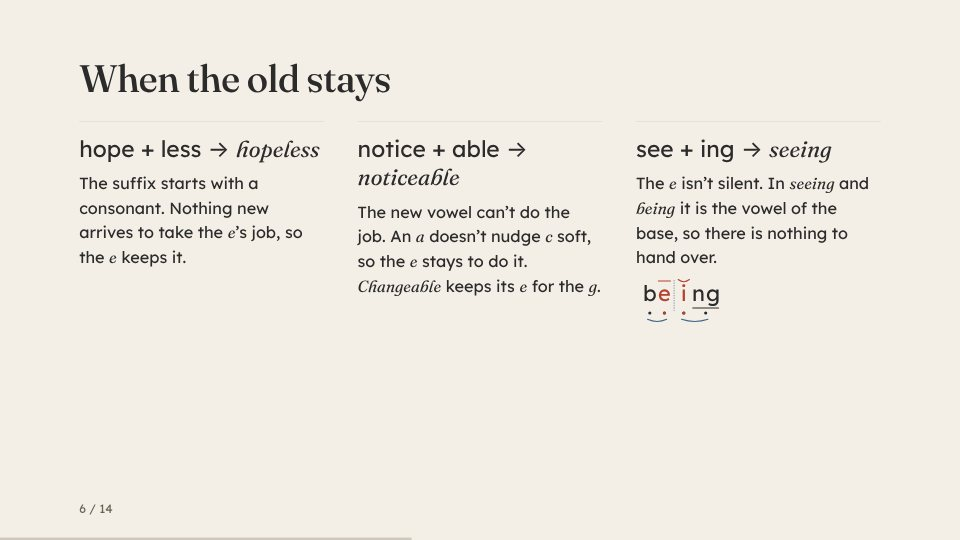
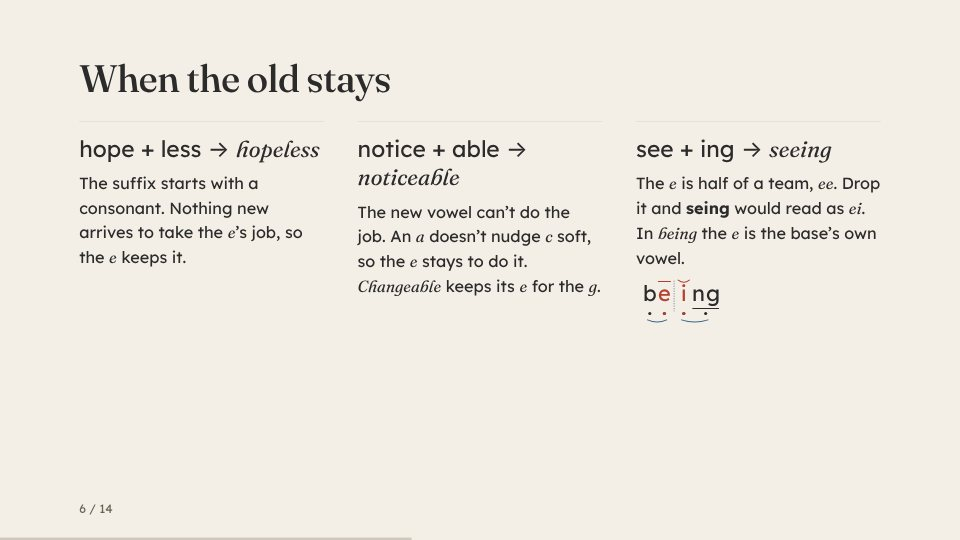
Deck: seeing keeps its e for the reason Carney gives (p. 131)
The e of ee and oe stays before i so that ei and oi aren't read; the
slide said the e wasn't silent, which wasn't the reason.

Claude-Session: https://claude.ai/code/session_01EBe5YS3G1aEsWeRdQiXfd5

Changed region(s): [[0.6562, 0.3259, 0.9375, 0.5333], [0.7188, 0.563, 0.75, 0.5926]]

diff --git a/docs/sessions/out-with-the-old-offline.html b/docs/sessions/out-with-the-old-offline.html
@@ -120,7 +120,7 @@ body.awake #controls,#controls:focus-within{opacity:1}
 <div class="cols3">
 <div data-s="1"><p class="sum">hope + less &rarr; <i>hopeless</i></p><p class="body">The suffix starts with a consonant. Nothing new arrives to take the <i>e</i>&rsquo;s job, so the <i>e</i> keeps it.</p></div>
 <div data-s="2"><p class="sum">notice + able &rarr; <i>noticeable</i></p><p class="body">The new vowel can&rsquo;t do the job. An <i>a</i> doesn&rsquo;t nudge <i>c</i> soft, so the <i>e</i> stays to do it. <i>Changeable</i> keeps its <i>e</i> for the <i>g</i>.</p></div>
-<div data-s="3"><p class="sum">see + ing &rarr; <i>seeing</i></p><p class="body">The <i>e</i> isn&rsquo;t silent. In <i>seeing</i> and <i>being</i> it is the vowel of the base, so there is nothing to hand over.<svg class="mw" viewBox="0 0 417 248" style="height:90px" role="img" aria-label="being, marked"><line x1="175.0" y1="49.0" x2="175.0" y2="190.0" stroke="var(--modal)" stroke-width="3.0" stroke-dasharray="5.7 5.7"/><g font-family="Lexend, system-ui, sans-serif" font-size="100.0" font-weight="400" text-anchor="middle"><text x="63.5" y="144.0" fill="var(--ink)">b</text><text x="130.5" y="144.0" fill="var(--verb)">e</text><text x="219.5" y="144.0" fill="var(--verb)">i</text><text x="286.5" y="144.0" fill="var(--ink)">n</text><text x="353.5" y="144.0" fill="var(--ink)">g</text></g><line x1="102.6" y1="53.0" x2="158.4" y2="53.0" stroke="var(--verb)" stroke-width="5.0" stroke-linecap="round"/><path d="M193.8 46.5 Q219.5 66.5 245.2 46.5" fill="none" stroke="var(--verb)" stroke-width="5.0" stroke-linecap="round"/><line x1="260.8" y1="177.0" x2="379.2" y2="177.0" stroke="var(--ink)" stroke-width="5.0" stroke-linecap="round"/><circle cx="63.5" cy="200.0" r="7.2" fill="var(--ink)"/><circle cx="130.5" cy="200.0" r="7.2" fill="var(--ink)"/><circle cx="130.5" cy="200.0" r="7.2" fill="var(--verb)"/><circle cx="219.5" cy="200.0" r="7.2" fill="var(--ink)"/><circle cx="219.5" cy="200.0" r="7.2" fill="var(--verb)"/><circle cx="320.0" cy="200.0" r="7.2" fill="var(--ink)"/><path d="M52.8 229.0 Q97.0 249.0 141.2 229.0" fill="none" stroke="var(--modal)" stroke-width="4.6" stroke-linecap="round"/><path d="M208.8 229.0 Q269.8 249.0 330.7 229.0" fill="none" stroke="var(--modal)" stroke-width="4.6" stroke-linecap="round"/></svg></p></div>
+<div data-s="3"><p class="sum">see + ing &rarr; <i>seeing</i></p><p class="body">The <i>e</i> is half of a team, <i>ee</i>. Drop it and <b>seing</b> would read as <i>ei</i>. In <i>being</i> the <i>e</i> is the base&rsquo;s own vowel.<svg class="mw" viewBox="0 0 417 248" style="height:90px" role="img" aria-label="being, marked"><line x1="175.0" y1="49.0" x2="175.0" y2="190.0" stroke="var(--modal)" stroke-width="3.0" stroke-dasharray="5.7 5.7"/><g font-family="Lexend, system-ui, sans-serif" font-size="100.0" font-weight="400" text-anchor="middle"><text x="63.5" y="144.0" fill="var(--ink)">b</text><text x="130.5" y="144.0" fill="var(--verb)">e</text><text x="219.5" y="144.0" fill="var(--verb)">i</text><text x="286.5" y="144.0" fill="var(--ink)">n</text><text x="353.5" y="144.0" fill="var(--ink)">g</text></g><line x1="102.6" y1="53.0" x2="158.4" y2="53.0" stroke="var(--verb)" stroke-width="5.0" stroke-linecap="round"/><path d="M193.8 46.5 Q219.5 66.5 245.2 46.5" fill="none" stroke="var(--verb)" stroke-width="5.0" stroke-linecap="round"/><line x1="260.8" y1="177.0" x2="379.2" y2="177.0" stroke="var(--ink)" stroke-width="5.0" stroke-linecap="round"/><circle cx="63.5" cy="200.0" r="7.2" fill="var(--ink)"/><circle cx="130.5" cy="200.0" r="7.2" fill="var(--ink)"/><circle cx="130.5" cy="200.0" r="7.2" fill="var(--verb)"/><circle cx="219.5" cy="200.0" r="7.2" fill="var(--ink)"/><circle cx="219.5" cy="200.0" r="7.2" fill="var(--verb)"/><circle cx="320.0" cy="200.0" r="7.2" fill="var(--ink)"/><path d="M52.8 229.0 Q97.0 249.0 141.2 229.0" fill="none" stroke="var(--modal)" stroke-width="4.6" stroke-linecap="round"/><path d="M208.8 229.0 Q269.8 249.0 330.7 229.0" fill="none" stroke="var(--modal)" stroke-width="4.6" stroke-linecap="round"/></svg></p></div>
 </div>
 </section>
 <section class="slide mid" aria-label="One question" data-max="1">
@@ -167,7 +167,7 @@ body.awake #controls,#controls:focus-within{opacity:1}
 </section>
 <section class="slide mid" aria-label="Sources">
 <h2 class="head">Sources</h2>
-<p class="body">Edward Carney, <i>A Survey of English Spelling</i> (Routledge, 1994): the <i>e</i> drops before an ending that begins with a vowel, p. 130, and stays where it still nudges <i>c</i> or <i>g</i> (<i>noticeable</i>), p. 131.</p>
+<p class="body">Edward Carney, <i>A Survey of English Spelling</i> (Routledge, 1994): the <i>e</i> drops before an ending that begins with a vowel, p. 130, and stays where it still nudges <i>c</i> or <i>g</i> (<i>noticeable</i>), p. 131; the <i>e</i> of <i>ee</i> and <i>oe</i> stays before <i>i</i> (<i>seeing</i>, <i>canoeing</i>), so that <i>ei</i> and <i>oi</i> aren&rsquo;t read, p. 131.</p>
 <p class="body">The histories of the words are in Etymonline. The families are on the Sound and Word Atlas: <a href="https://legomorphics.ca/roots/deuk.html">*deuk-</a> for <i>educate</i> and <i>produce</i>, <a href="https://legomorphics.ca/roots/med.html">*med-</a> for <i>accommodate</i>, and <a href="https://legomorphics.ca/parts.html">Parts</a> for every word with each suffix. This is <a href="https://legomorphics.ca/steps/15.html">step 15</a> of its route.</p>
 <p class="source">Shared under CC BY-NC-SA 4.0.</p>
 </section>

diff --git a/build/sessions/out-with-the-old.html b/build/sessions/out-with-the-old.html
@@ -110,7 +110,7 @@ body.awake #controls,#controls:focus-within{opacity:1}
 <div class="cols3">
 <div data-s="1"><p class="sum">hope + less &rarr; <i>hopeless</i></p><p class="body">The suffix starts with a consonant. Nothing new arrives to take the <i>e</i>&rsquo;s job, so the <i>e</i> keeps it.</p></div>
 <div data-s="2"><p class="sum">notice + able &rarr; <i>noticeable</i></p><p class="body">The new vowel can&rsquo;t do the job. An <i>a</i> doesn&rsquo;t nudge <i>c</i> soft, so the <i>e</i> stays to do it. <i>Changeable</i> keeps its <i>e</i> for the <i>g</i>.</p></div>
-<div data-s="3"><p class="sum">see + ing &rarr; <i>seeing</i></p><p class="body">The <i>e</i> isn&rsquo;t silent. In <i>seeing</i> and <i>being</i> it is the vowel of the base, so there is nothing to hand over.<svg class="mw" viewBox="0 0 417 248" style="height:90px" role="img" aria-label="being, marked"><line x1="175.0" y1="49.0" x2="175.0" y2="190.0" stroke="var(--modal)" stroke-width="3.0" stroke-dasharray="5.7 5.7"/><g font-family="Lexend, system-ui, sans-serif" font-size="100.0" font-weight="400" text-anchor="middle"><text x="63.5" y="144.0" fill="var(--ink)">b</text><text x="130.5" y="144.0" fill="var(--verb)">e</text><text x="219.5" y="144.0" fill="var(--verb)">i</text><text x="286.5" y="144.0" fill="var(--ink)">n</text><text x="353.5" y="144.0" fill="var(--ink)">g</text></g><line x1="102.6" y1="53.0" x2="158.4" y2="53.0" stroke="var(--verb)" stroke-width="5.0" stroke-linecap="round"/><path d="M193.8 46.5 Q219.5 66.5 245.2 46.5" fill="none" stroke="var(--verb)" stroke-width="5.0" stroke-linecap="round"/><line x1="260.8" y1="177.0" x2="379.2" y2="177.0" stroke="var(--ink)" stroke-width="5.0" stroke-linecap="round"/><circle cx="63.5" cy="200.0" r="7.2" fill="var(--ink)"/><circle cx="130.5" cy="200.0" r="7.2" fill="var(--ink)"/><circle cx="130.5" cy="200.0" r="7.2" fill="var(--verb)"/><circle cx="219.5" cy="200.0" r="7.2" fill="var(--ink)"/><circle cx="219.5" cy="200.0" r="7.2" fill="var(--verb)"/><circle cx="320.0" cy="200.0" r="7.2" fill="var(--ink)"/><path d="M52.8 229.0 Q97.0 249.0 141.2 229.0" fill="none" stroke="var(--modal)" stroke-width="4.6" stroke-linecap="round"/><path d="M208.8 229.0 Q269.8 249.0 330.7 229.0" fill="none" stroke="var(--modal)" stroke-width="4.6" stroke-linecap="round"/></svg></p></div>
+<div data-s="3"><p class="sum">see + ing &rarr; <i>seeing</i></p><p class="body">The <i>e</i> is half of a team, <i>ee</i>. Drop it and <b>seing</b> would read as <i>ei</i>. In <i>being</i> the <i>e</i> is the base&rsquo;s own vowel.<svg class="mw" viewBox="0 0 417 248" style="height:90px" role="img" aria-label="being, marked"><line x1="175.0" y1="49.0" x2="175.0" y2="190.0" stroke="var(--modal)" stroke-width="3.0" stroke-dasharray="5.7 5.7"/><g font-family="Lexend, system-ui, sans-serif" font-size="100.0" font-weight="400" text-anchor="middle"><text x="63.5" y="144.0" fill="var(--ink)">b</text><text x="130.5" y="144.0" fill="var(--verb)">e</text><text x="219.5" y="144.0" fill="var(--verb)">i</text><text x="286.5" y="144.0" fill="var(--ink)">n</text><text x="353.5" y="144.0" fill="var(--ink)">g</text></g><line x1="102.6" y1="53.0" x2="158.4" y2="53.0" stroke="var(--verb)" stroke-width="5.0" stroke-linecap="round"/><path d="M193.8 46.5 Q219.5 66.5 245.2 46.5" fill="none" stroke="var(--verb)" stroke-width="5.0" stroke-linecap="round"/><line x1="260.8" y1="177.0" x2="379.2" y2="177.0" stroke="var(--ink)" stroke-width="5.0" stroke-linecap="round"/><circle cx="63.5" cy="200.0" r="7.2" fill="var(--ink)"/><circle cx="130.5" cy="200.0" r="7.2" fill="var(--ink)"/><circle cx="130.5" cy="200.0" r="7.2" fill="var(--verb)"/><circle cx="219.5" cy="200.0" r="7.2" fill="var(--ink)"/><circle cx="219.5" cy="200.0" r="7.2" fill="var(--verb)"/><circle cx="320.0" cy="200.0" r="7.2" fill="var(--ink)"/><path d="M52.8 229.0 Q97.0 249.0 141.2 229.0" fill="none" stroke="var(--modal)" stroke-width="4.6" stroke-linecap="round"/><path d="M208.8 229.0 Q269.8 249.0 330.7 229.0" fill="none" stroke="var(--modal)" stroke-width="4.6" stroke-linecap="round"/></svg></p></div>
 </div>
 </section>
 <section class="slide mid" aria-label="One question" data-max="1">
@@ -157,7 +157,7 @@ body.awake #controls,#controls:focus-within{opacity:1}
 </section>
 <section class="slide mid" aria-label="Sources">
 <h2 class="head">Sources</h2>
-<p class="body">Edward Carney, <i>A Survey of English Spelling</i> (Routledge, 1994): the <i>e</i> drops before an ending that begins with a vowel, p. 130, and stays where it still nudges <i>c</i> or <i>g</i> (<i>noticeable</i>), p. 131.</p>
+<p class="body">Edward Carney, <i>A Survey of English Spelling</i> (Routledge, 1994): the <i>e</i> drops before an ending that begins with a vowel, p. 130, and stays where it still nudges <i>c</i> or <i>g</i> (<i>noticeable</i>), p. 131; the <i>e</i> of <i>ee</i> and <i>oe</i> stays before <i>i</i> (<i>seeing</i>, <i>canoeing</i>), so that <i>ei</i> and <i>oi</i> aren&rsquo;t read, p. 131.</p>
 <p class="body">The histories of the words are in Etymonline. The families are on the Sound and Word Atlas: <a href="../roots/deuk.html">*deuk-</a> for <i>educate</i> and <i>produce</i>, <a href="../roots/med.html">*med-</a> for <i>accommodate</i>, and <a href="../parts.html">Parts</a> for every word with each suffix. This is <a href="../steps/15.html">step 15</a> of its route.</p>
 <p class="source">Shared under CC BY-NC-SA 4.0.</p>
 </section>

diff --git a/docs/sessions/out-with-the-old.html b/docs/sessions/out-with-the-old.html
@@ -108,7 +108,7 @@ body.awake #controls,#controls:focus-within{opacity:1}
 <div class="cols3">
 <div data-s="1"><p class="sum">hope + less &rarr; <i>hopeless</i></p><p class="body">The suffix starts with a consonant. Nothing new arrives to take the <i>e</i>&rsquo;s job, so the <i>e</i> keeps it.</p></div>
 <div data-s="2"><p class="sum">notice + able &rarr; <i>noticeable</i></p><p class="body">The new vowel can&rsquo;t do the job. An <i>a</i> doesn&rsquo;t nudge <i>c</i> soft, so the <i>e</i> stays to do it. <i>Changeable</i> keeps its <i>e</i> for the <i>g</i>.</p></div>
-<div data-s="3"><p class="sum">see + ing &rarr; <i>seeing</i></p><p class="body">The <i>e</i> isn&rsquo;t silent. In <i>seeing</i> and <i>being</i> it is the vowel of the base, so there is nothing to hand over.<svg class="mw" viewBox="0 0 417 248" style="height:90px" role="img" aria-label="being, marked"><line x1="175.0" y1="49.0" x2="175.0" y2="190.0" stroke="var(--modal)" stroke-width="3.0" stroke-dasharray="5.7 5.7"/><g font-family="Lexend, system-ui, sans-serif" font-size="100.0" font-weight="400" text-anchor="middle"><text x="63.5" y="144.0" fill="var(--ink)">b</text><text x="130.5" y="144.0" fill="var(--verb)">e</text><text x="219.5" y="144.0" fill="var(--verb)">i</text><text x="286.5" y="144.0" fill="var(--ink)">n</text><text x="353.5" y="144.0" fill="var(--ink)">g</text></g><line x1="102.6" y1="53.0" x2="158.4" y2="53.0" stroke="var(--verb)" stroke-width="5.0" stroke-linecap="round"/><path d="M193.8 46.5 Q219.5 66.5 245.2 46.5" fill="none" stroke="var(--verb)" stroke-width="5.0" stroke-linecap="round"/><line x1="260.8" y1="177.0" x2="379.2" y2="177.0" stroke="var(--ink)" stroke-width="5.0" stroke-linecap="round"/><circle cx="63.5" cy="200.0" r="7.2" fill="var(--ink)"/><circle cx="130.5" cy="200.0" r="7.2" fill="var(--ink)"/><circle cx="130.5" cy="200.0" r="7.2" fill="var(--verb)"/><circle cx="219.5" cy="200.0" r="7.2" fill="var(--ink)"/><circle cx="219.5" cy="200.0" r="7.2" fill="var(--verb)"/><circle cx="320.0" cy="200.0" r="7.2" fill="var(--ink)"/><path d="M52.8 229.0 Q97.0 249.0 141.2 229.0" fill="none" stroke="var(--modal)" stroke-width="4.6" stroke-linecap="round"/><path d="M208.8 229.0 Q269.8 249.0 330.7 229.0" fill="none" stroke="var(--modal)" stroke-width="4.6" stroke-linecap="round"/></svg></p></div>
+<div data-s="3"><p class="sum">see + ing &rarr; <i>seeing</i></p><p class="body">The <i>e</i> is half of a team, <i>ee</i>. Drop it and <b>seing</b> would read as <i>ei</i>. In <i>being</i> the <i>e</i> is the base&rsquo;s own vowel.<svg class="mw" viewBox="0 0 417 248" style="height:90px" role="img" aria-label="being, marked"><line x1="175.0" y1="49.0" x2="175.0" y2="190.0" stroke="var(--modal)" stroke-width="3.0" stroke-dasharray="5.7 5.7"/><g font-family="Lexend, system-ui, sans-serif" font-size="100.0" font-weight="400" text-anchor="middle"><text x="63.5" y="144.0" fill="var(--ink)">b</text><text x="130.5" y="144.0" fill="var(--verb)">e</text><text x="219.5" y="144.0" fill="var(--verb)">i</text><text x="286.5" y="144.0" fill="var(--ink)">n</text><text x="353.5" y="144.0" fill="var(--ink)">g</text></g><line x1="102.6" y1="53.0" x2="158.4" y2="53.0" stroke="var(--verb)" stroke-width="5.0" stroke-linecap="round"/><path d="M193.8 46.5 Q219.5 66.5 245.2 46.5" fill="none" stroke="var(--verb)" stroke-width="5.0" stroke-linecap="round"/><line x1="260.8" y1="177.0" x2="379.2" y2="177.0" stroke="var(--ink)" stroke-width="5.0" stroke-linecap="round"/><circle cx="63.5" cy="200.0" r="7.2" fill="var(--ink)"/><circle cx="130.5" cy="200.0" r="7.2" fill="var(--ink)"/><circle cx="130.5" cy="200.0" r="7.2" fill="var(--verb)"/><circle cx="219.5" cy="200.0" r="7.2" fill="var(--ink)"/><circle cx="219.5" cy="200.0" r="7.2" fill="var(--verb)"/><circle cx="320.0" cy="200.0" r="7.2" fill="var(--ink)"/><path d="M52.8 229.0 Q97.0 249.0 141.2 229.0" fill="none" stroke="var(--modal)" stroke-width="4.6" stroke-linecap="round"/><path d="M208.8 229.0 Q269.8 249.0 330.7 229.0" fill="none" stroke="var(--modal)" stroke-width="4.6" stroke-linecap="round"/></svg></p></div>
 </div>
 </section>
 <section class="slide mid" aria-label="One question" data-max="1">
@@ -155,7 +155,7 @@ body.awake #controls,#controls:focus-within{opacity:1}
 </section>
 <section class="slide mid" aria-label="Sources">
 <h2 class="head">Sources</h2>
-<p class="body">Edward Carney, <i>A Survey of English Spelling</i> (Routledge, 1994): the <i>e</i> drops before an ending that begins with a vowel, p. 130, and stays where it still nudges <i>c</i> or <i>g</i> (<i>noticeable</i>), p. 131.</p>
+<p class="body">Edward Carney, <i>A Survey of English Spelling</i> (Routledge, 1994): the <i>e</i> drops before an ending that begins with a vowel, p. 130, and stays where it still nudges <i>c</i> or <i>g</i> (<i>noticeable</i>), p. 131; the <i>e</i> of <i>ee</i> and <i>oe</i> stays before <i>i</i> (<i>seeing</i>, <i>canoeing</i>), so that <i>ei</i> and <i>oi</i> aren&rsquo;t read, p. 131.</p>
 <p class="body">The histories of the words are in Etymonline. The families are on the Sound and Word Atlas: <a href="../roots/deuk.html">*deuk-</a> for <i>educate</i> and <i>produce</i>, <a href="../roots/med.html">*med-</a> for <i>accommodate</i>, and <a href="../parts.html">Parts</a> for every word with each suffix. This is <a href="../steps/15.html">step 15</a> of its route.</p>
 <p class="source">Shared under CC BY-NC-SA 4.0.</p>
 </section>

diff --git a/build/outin.py b/build/outin.py
@@ -66,7 +66,7 @@ slide("When the old stays", f"""<h2 class="head">When the old stays</h2>
 <div class="cols3">
 <div data-s="1"><p class="sum">hope + less &rarr; {i("hopeless")}</p><p class="body">The suffix starts with a consonant. Nothing new arrives to take the {i("e")}&rsquo;s job, so the {i("e")} keeps it.</p></div>
 <div data-s="2"><p class="sum">notice + able &rarr; {i("noticeable")}</p><p class="body">The new vowel can&rsquo;t do the job. An {i("a")} doesn&rsquo;t nudge {i("c")} soft, so the {i("e")} stays to do it. {i("Changeable")} keeps its {i("e")} for the {i("g")}.</p></div>
-<div data-s="3"><p class="sum">see + ing &rarr; {i("seeing")}</p><p class="body">The {i("e")} isn&rsquo;t silent. In {i("seeing")} and {i("being")} it is the vowel of the base, so there is nothing to hand over.{word("being", 90)}</p></div>
+<div data-s="3"><p class="sum">see + ing &rarr; {i("seeing")}</p><p class="body">The {i("e")} is half of a team, {i("ee")}. Drop it and <b>seing</b> would read as {i("ei")}. In {i("being")} the {i("e")} is the base&rsquo;s own vowel.{word("being", 90)}</p></div>
 </div>""", steps=3)
 
 # 7 the test
@@ -118,7 +118,7 @@ slide("A caution", f"""<h2 class="head">A caution: the parts stay, the sounds mo
 
 # 14 sources
 slide("Sources", f"""<h2 class="head">Sources</h2>
-<p class="body">Edward Carney, <i>A Survey of English Spelling</i> (Routledge, 1994): the <i>e</i> drops before an ending that begins with a vowel, p. 130, and stays where it still nudges <i>c</i> or <i>g</i> (<i>noticeable</i>), p. 131.</p>
+<p class="body">Edward Carney, <i>A Survey of English Spelling</i> (Routledge, 1994): the <i>e</i> drops before an ending that begins with a vowel, p. 130, and stays where it still nudges <i>c</i> or <i>g</i> (<i>noticeable</i>), p. 131; the <i>e</i> of <i>ee</i> and <i>oe</i> stays before <i>i</i> (<i>seeing</i>, <i>canoeing</i>), so that <i>ei</i> and <i>oi</i> aren&rsquo;t read, p. 131.</p>
 <p class="body">The histories of the words are in Etymonline. The families are on the Sound and Word Atlas: <a href="../roots/deuk.html">*deuk-</a> for <i>educate</i> and <i>produce</i>, <a href="../roots/med.html">*med-</a> for <i>accommodate</i>, and <a href="../parts.html">Parts</a> for every word with each suffix. This is <a href="../steps/15.html">step 15</a> of its route.</p>
 <p class="source">Shared under CC BY-NC-SA 4.0.</p>""", "mid")
 
